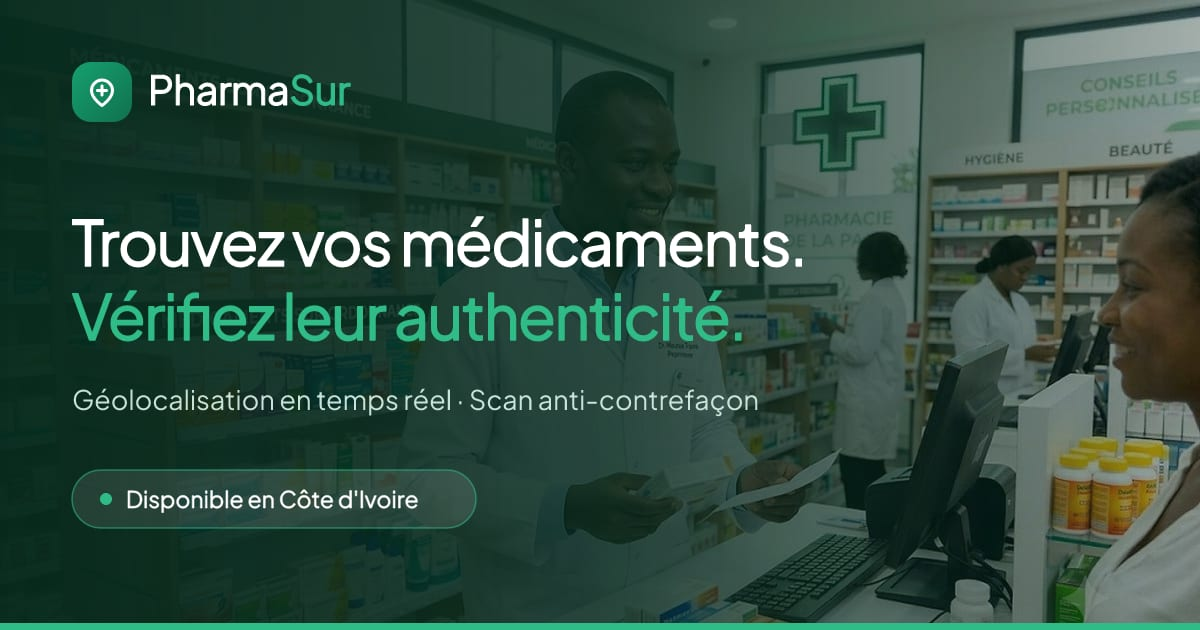
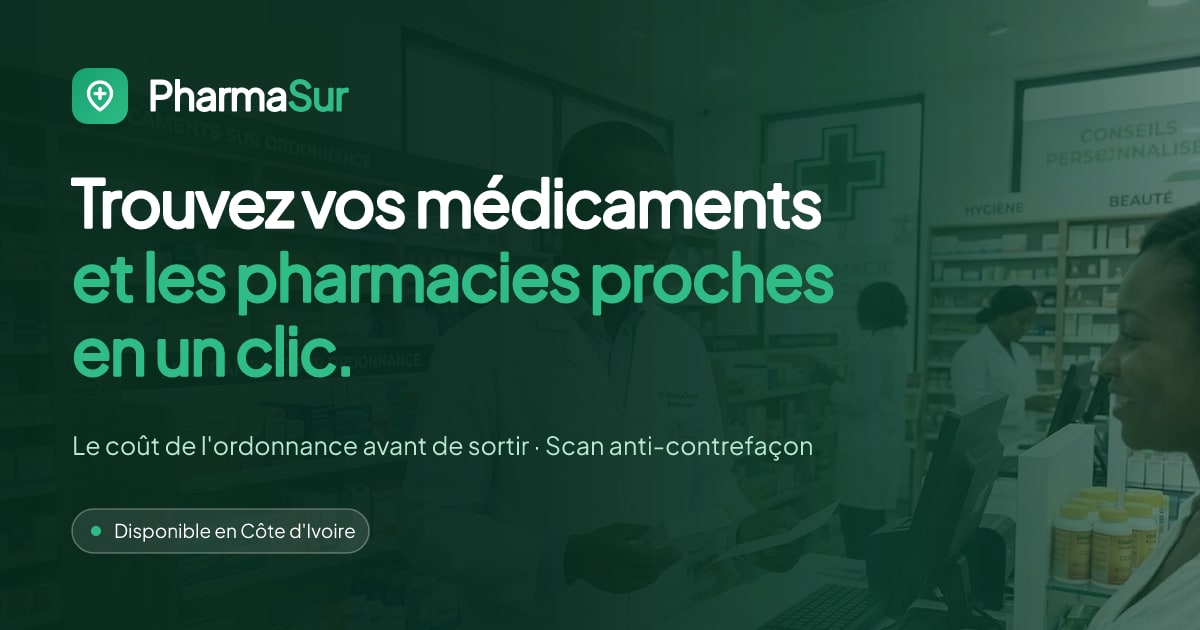
Aligne le titre de la page et l'aperçu de partage sur le héros
L'onglet du navigateur, les résultats de recherche et l'aperçu partagé
sur WhatsApp, Facebook, LinkedIn et X annonçaient encore « Trouvez vos
médicaments, vérifiez leur authenticité ». Un visiteur arrivant depuis
un partage lisait une promesse et en trouvait une autre sur la page.

Le titre, les deux descriptions et le texte alternatif reprennent
désormais le libellé du héros. Les descriptions gardent la mention du
scan anti-contrefaçon : la fonctionnalité existe toujours dans la page
et le mot reste utile au référencement, il n'est simplement plus ce
qu'on lit en premier.

L'ancien og.jpg portait l'ancien titre gravé dans l'image ; changer les
seules balises l'aurait laissé contredire la page. Il est regénéré par
design/generer-og.mjs, à partir de la photo du héros et des jetons de
src/index.css.

Le contraste des textes de la carte est mesuré, pas jugé à l'oeil : on
reconstruit le fond seul et on relève le pixel le plus clair sous
chaque bloc. Le premier voile laissait la deuxième ligne, en vert 400,
à 2,64:1 — sous le seuil de 3:1 des grands textes. Le palier sombre du
dégradé est étendu jusqu'à 72 % de la largeur, là où le titre s'arrête.
Plancher de la carte : 3,96:1, tous blocs conformes.

Le voile et la géométrie sont dans design/og-commun.mjs, importés par
le générateur comme par la mesure : une mesure faite sur un fond qui
n'est plus celui du rendu ne mesure rien.

diff --git a/index.html b/index.html
@@ -6,16 +6,26 @@
     <link rel="apple-touch-icon" href="/apple-touch-icon.png" />
     <meta name="viewport" content="width=device-width, initial-scale=1.0" />
     <meta name="theme-color" content="#0b3d2c" />
-    <title>PharmaSur — Trouvez vos médicaments, vérifiez leur authenticité</title>
+    <!--
+      Ces trois titres reprennent mot pour mot le héros de la page. S'ils en
+      divergent, le visiteur qui arrive depuis un partage ou un résultat de
+      recherche lit une promesse et en trouve une autre. Modifier le héros,
+      c'est modifier ces balises et regénérer og.jpg (design/generer-og.mjs),
+      qui porte le même titre gravé dans l'image.
+    -->
+    <title>PharmaSur — Trouvez vos médicaments et les pharmacies proches en un clic</title>
     <link rel="canonical" href="%SITE_URL%/" />
     <meta
       name="description"
-      content="PharmaSur géolocalise en temps réel la disponibilité des médicaments dans les pharmacies de Côte d'Ivoire et authentifie vos boîtes grâce à un scanner intelligent anti-contrefaçon."
+      content="PharmaSur classe les pharmacies proches de vous selon le nombre de médicaments de votre ordonnance réellement disponibles, en affiche le coût, et authentifie chaque boîte en un scan."
     />
-    <meta property="og:title" content="PharmaSur — Trouvez vos médicaments, vérifiez leur authenticité" />
+    <meta
+      property="og:title"
+      content="PharmaSur — Trouvez vos médicaments et les pharmacies proches en un clic"
+    />
     <meta
       property="og:description"
-      content="Géolocalisation des pharmacies qui ont votre médicament en stock et authentification anti-contrefaçon en un scan."
+      content="Les pharmacies proches classées selon ce qu'elles ont vraiment en stock, le coût de l'ordonnance avant de sortir, et l'authenticité de chaque boîte en un scan."
     />
     <meta property="og:type" content="website" />
     <meta property="og:locale" content="fr_CI" />
@@ -27,16 +37,16 @@
     <meta property="og:image:height" content="630" />
     <meta
       property="og:image:alt"
-      content="Comptoir d'une pharmacie ivoirienne, surmonté du titre « Trouvez vos médicaments, vérifiez leur authenticité »."
+      content="Comptoir d'une pharmacie ivoirienne, surmonté du titre « Trouvez vos médicaments et les pharmacies proches en un clic »."
     />
     <meta name="twitter:card" content="summary_large_image" />
     <meta
       name="twitter:title"
-      content="PharmaSur — Trouvez vos médicaments, vérifiez leur authenticité"
+      content="PharmaSur — Trouvez vos médicaments et les pharmacies proches en un clic"
     />
     <meta
       name="twitter:description"
-      content="Géolocalisation des pharmacies qui ont votre médicament en stock et authentification anti-contrefaçon en un scan."
+      content="Les pharmacies proches classées selon ce qu'elles ont vraiment en stock, le coût de l'ordonnance avant de sortir, et l'authenticité de chaque boîte en un scan."
     />
     <meta name="twitter:image" content="%SITE_URL%/og.jpg" />
     <link
